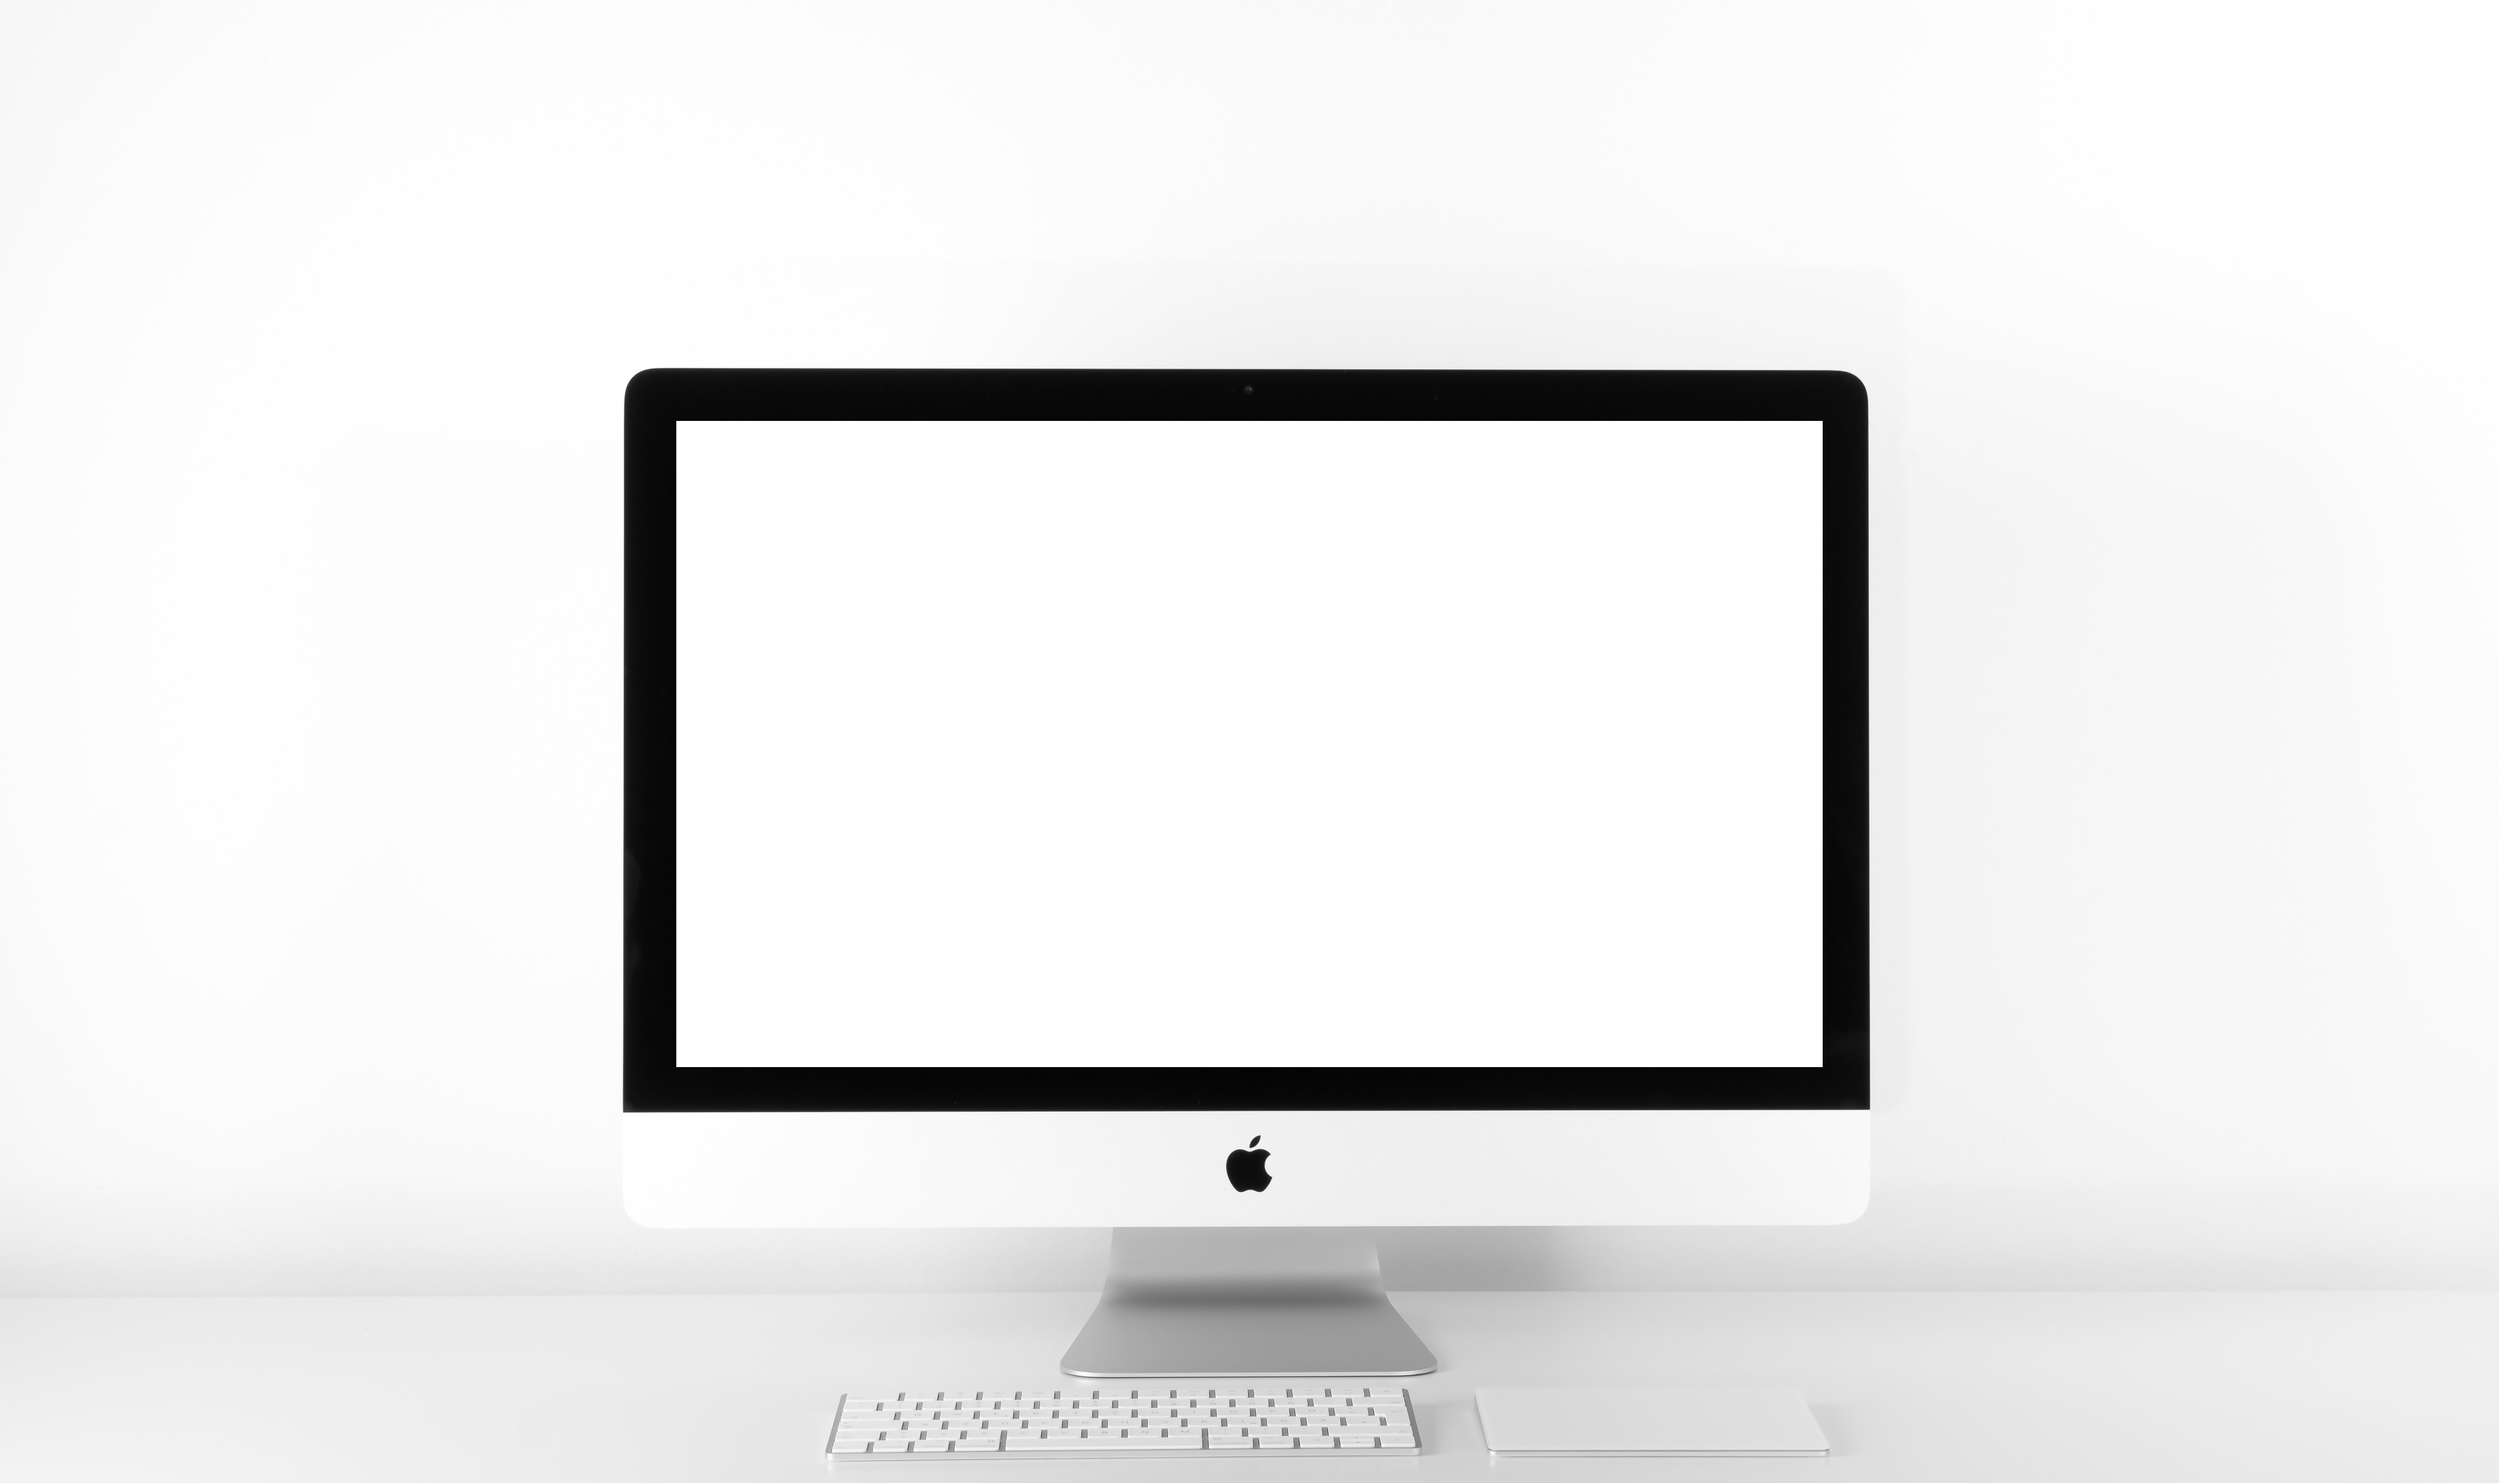
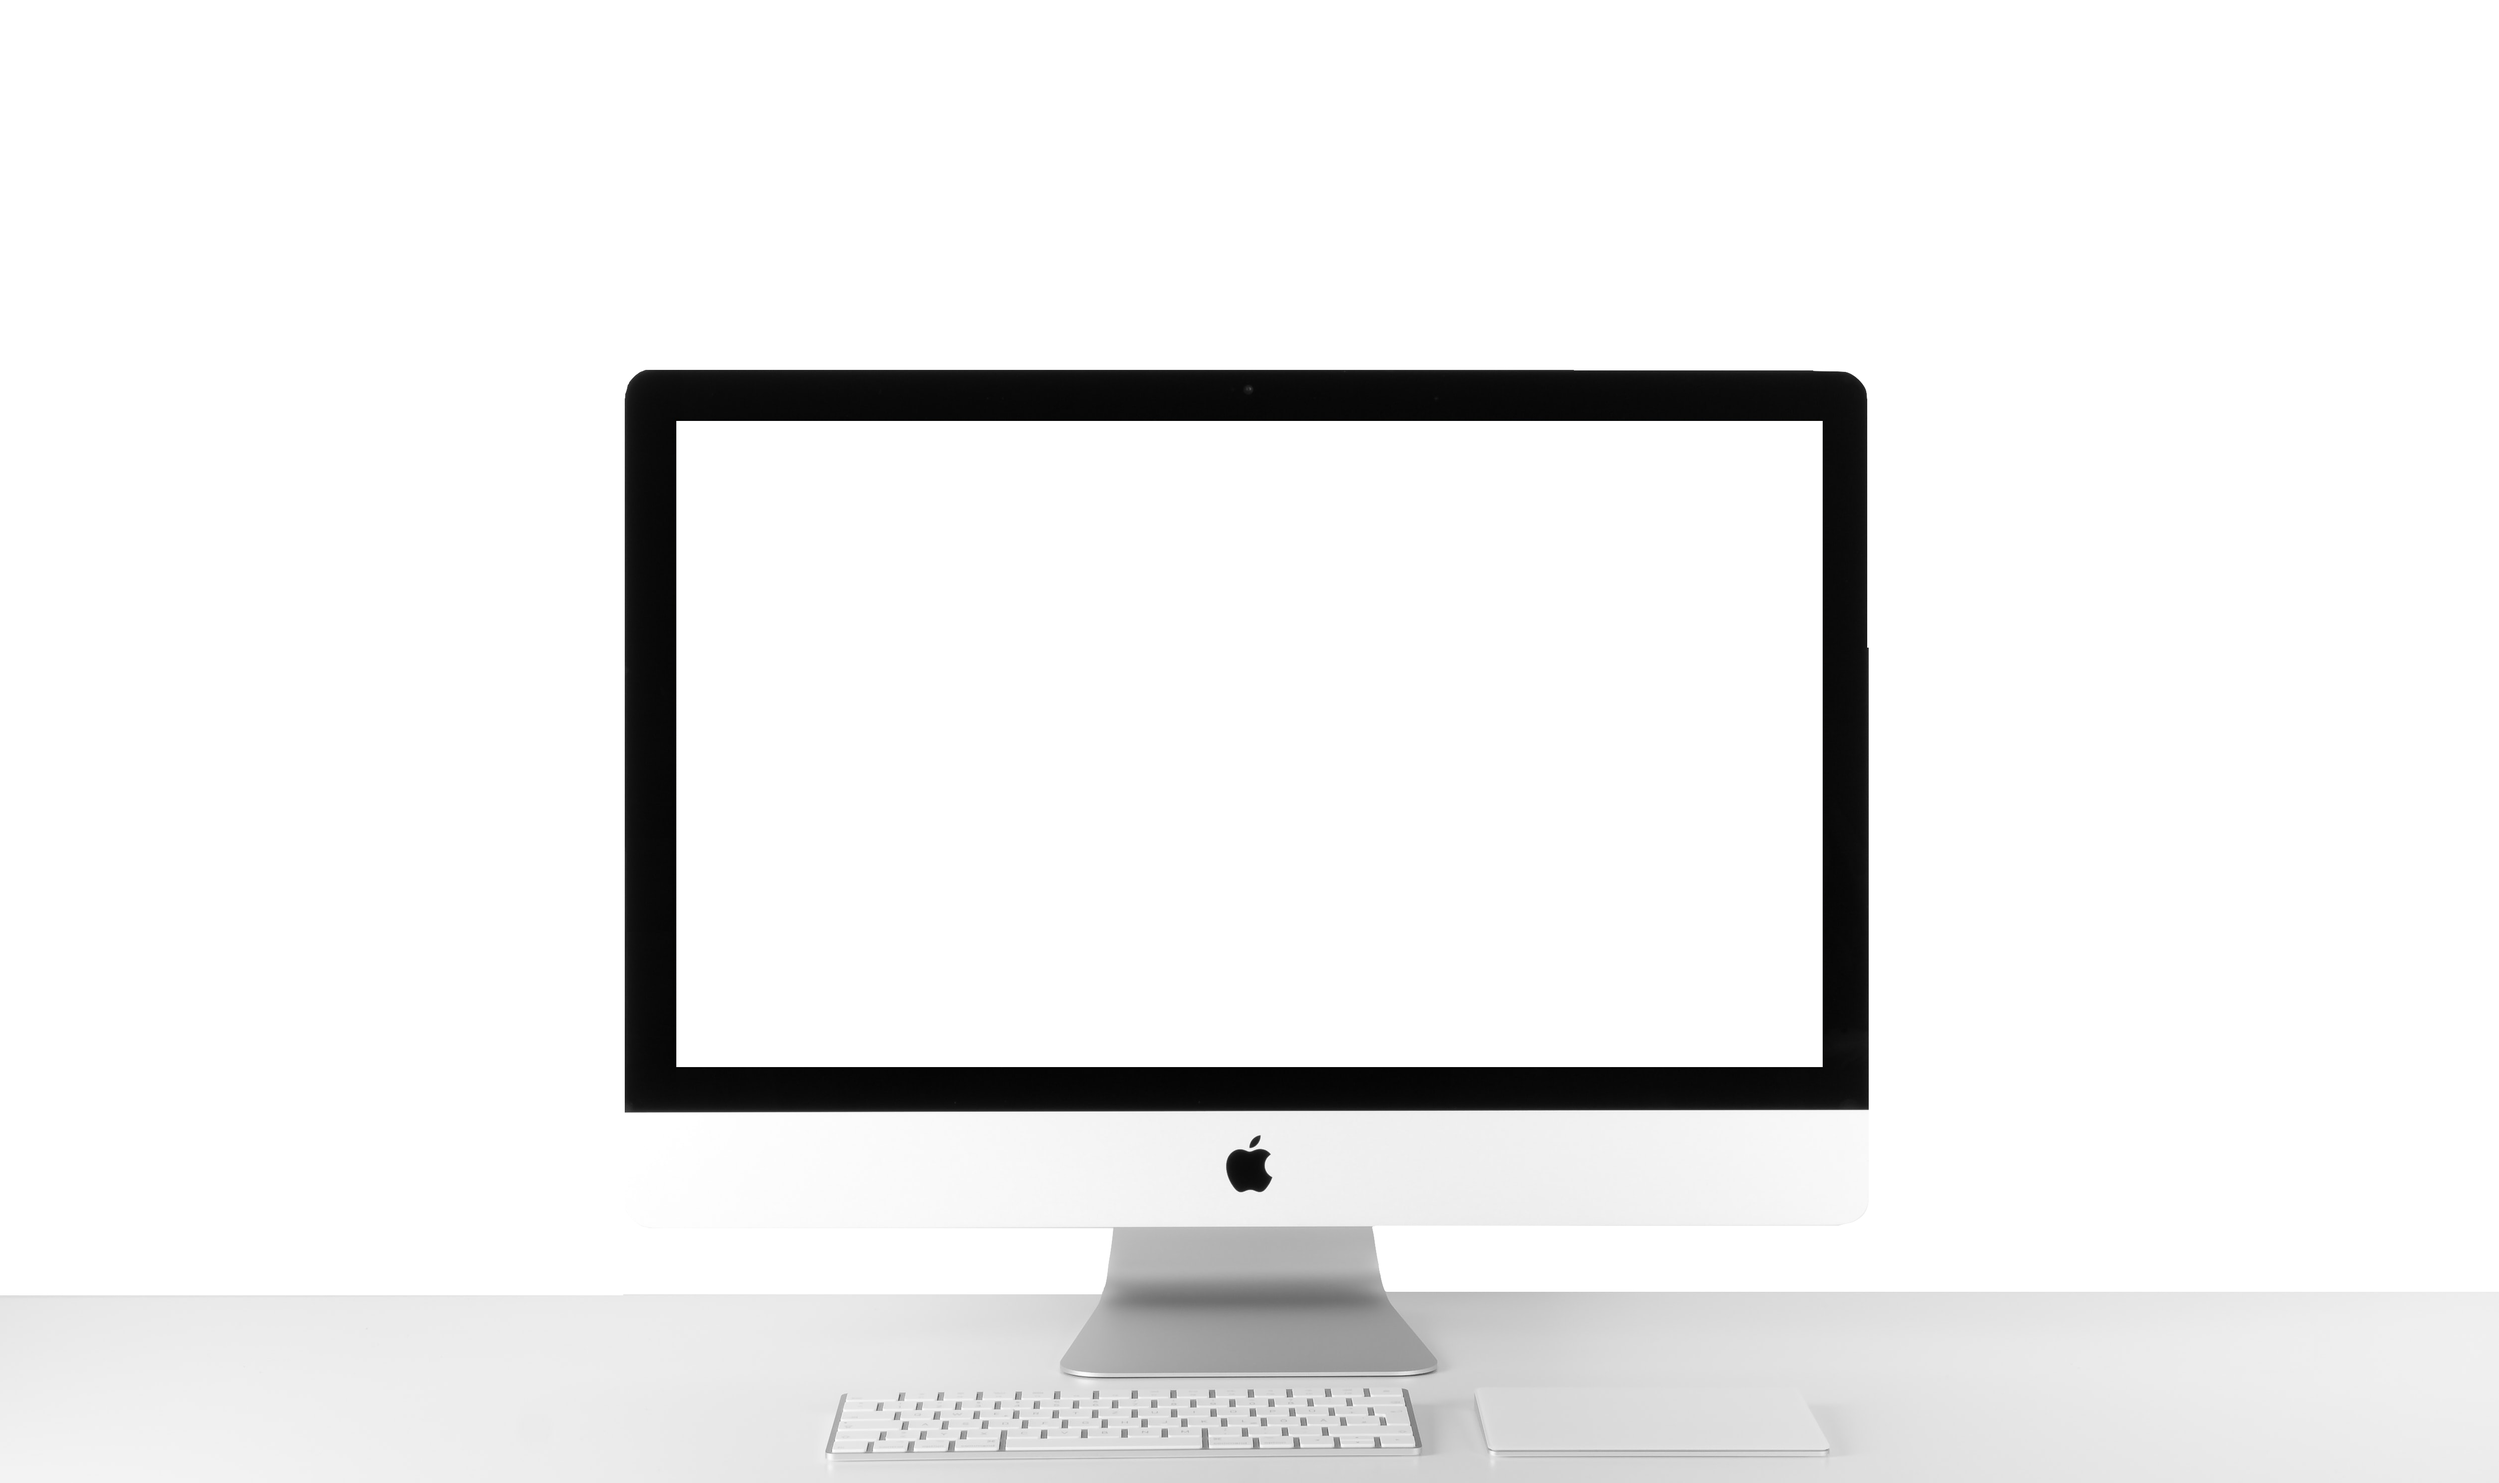
combined imac photos

Changed region(s): [[0.0, 0.8073, 0.4688, 0.9004], [0.5312, 0.8073, 0.9688, 0.8694]]

diff --git a/src/CustomStyles.css b/src/CustomStyles.css
@@ -46,12 +46,12 @@
   height: 100vh;
   width: 100vw;
   position: absolute;
-  z-index: 50;
   pointer-events: none;
   overflow: hidden;
+  z-Index: 30;
 }
 
-.computer-background {
+.Background img {
   position: absolute;
   width: 100%;
   height: 100%;
@@ -60,17 +60,7 @@
   transform: translate(-50%, -50%);
 }
 
-.nature-background {
-  position: absolute;
-  width: 100%;
-  height: 100%;
-  top: 50%;
-  left: 50%;
-  z-index: -50;
-  transform: translate(-50%, -50%);
-}
-
-.computer-background.zoom-in {
+.Background img.zoom-in {
   animation-name: b-zoom-in;
   animation-duration: 2s;
   animation-timing-function: ease-in-out;
@@ -81,14 +71,16 @@
   from {
     width: 100%;
     height: 100%;
+    top: 50%;
   }
   to {
-    width: 230%;
-    height: 230%;
+    width: 250%;
+    height: 250%;
+    top: 47%;
   }
 }
 
-.computer-background.zoom-out {
+.Background img.zoom-out {
   animation-name: b-zoom-out;
   animation-duration: 2s;
   animation-timing-function: ease-in-out;
@@ -97,12 +89,14 @@
 
 @keyframes b-zoom-out {
   from {
-    width: 230%;
-    height: 230%;
+    width: 250%;
+    height: 250%;
+    top: 47%;
   }
   to {
     width: 100%;
     height: 100%;
+    top: 50%;
   }
 }
 
@@ -117,6 +111,8 @@
   justify-content: center;
   display: flex;
   overflow: hidden;
+  background: 'transparent';
+  z-Index: 25;
 }
 
 .Screen.zoom-in {

diff --git a/src/Screen.js b/src/Screen.js
@@ -17,18 +17,20 @@ const Screen = ({ size, setAnimationType, animationType }) => {
       id: 'ScreenButton',
       focusIndicator: false,
       margin: 'small',
-      onClick: ()=>setAnimationType('zoom-in'),
+      onClick: () => setAnimationType('zoom-in'),
     }
   }
 
   return (
-    <div className={`Screen ${animationType}`} style={{pointerEvents: animationType==='zoom-in' ? 'none' : 'auto'}}>
-      <Box direction='row' gap='small' margin={{top: '3vh'}} >
-        <Heading {...props.heading}>MARTIN</Heading>
-        <Heading {...props.heading}>KIM</Heading>
+    <div className={`Screen ${animationType}`} style={{ pointerEvents: animationType === 'zoom-in' ? 'none' : 'auto' }}>
+      <Box background='white' height='50vh' width='48vw' justify='center' align='center'>
+        <Box direction='row' gap='small' margin={{ top: '5vh', right: '1vw' }} >
+          <Heading {...props.heading}>MARTIN</Heading>
+          <Heading {...props.heading}>KIM</Heading>
+        </Box>
+        <TypedComponent />
+        <Button {...props.button} />
       </Box>
-      <TypedComponent />
-      <Button {...props.button}/>
     </div>
   )
 }

diff --git a/src/App.js b/src/App.js
@@ -22,9 +22,9 @@ function App() {
       behavior: "smooth"
     });
 
-    setTimeout(()=>{
+    setTimeout(() => {
       setAnimationType('zoom-out')
-    },500)
+    }, 500)
   }
 
   const props = {
@@ -66,15 +66,15 @@ function App() {
       <ResponsiveContext.Consumer>
         {size => (
           <Box>
-            <Screen size={size} animationType={animationType} setAnimationType={setAnimationType}/>
-            <Background animationType={animationType}/>
+            <Screen size={size} animationType={animationType} setAnimationType={setAnimationType} />
+            <Background animationType={animationType} />
             <Home {...props.home} size={size} />
             <Box {...props.main}>
               <About size={size} />
               <Portfolio size={size} />
               <Contact {...props.contact} size={size} />
+              <NavBar />
             </Box>
-            <NavBar />
           </Box>
         )}
       </ResponsiveContext.Consumer>

diff --git a/src/Background.js b/src/Background.js
@@ -1,13 +1,11 @@
 import React from 'react';
-import background from './imac-cropped.png'
-import natureBackground from './nature-background.jpg'
+import background from './imac-combined.png'
 
 const Background = ({ animationType }) => {
 
   return (
     <div className='Background'>
       <img src={background} alt='background' className={`computer-background ${animationType}`} />
-      <img src={natureBackground} alt='nature-background' className='nature-background'/>
     </div>
   )
 }
